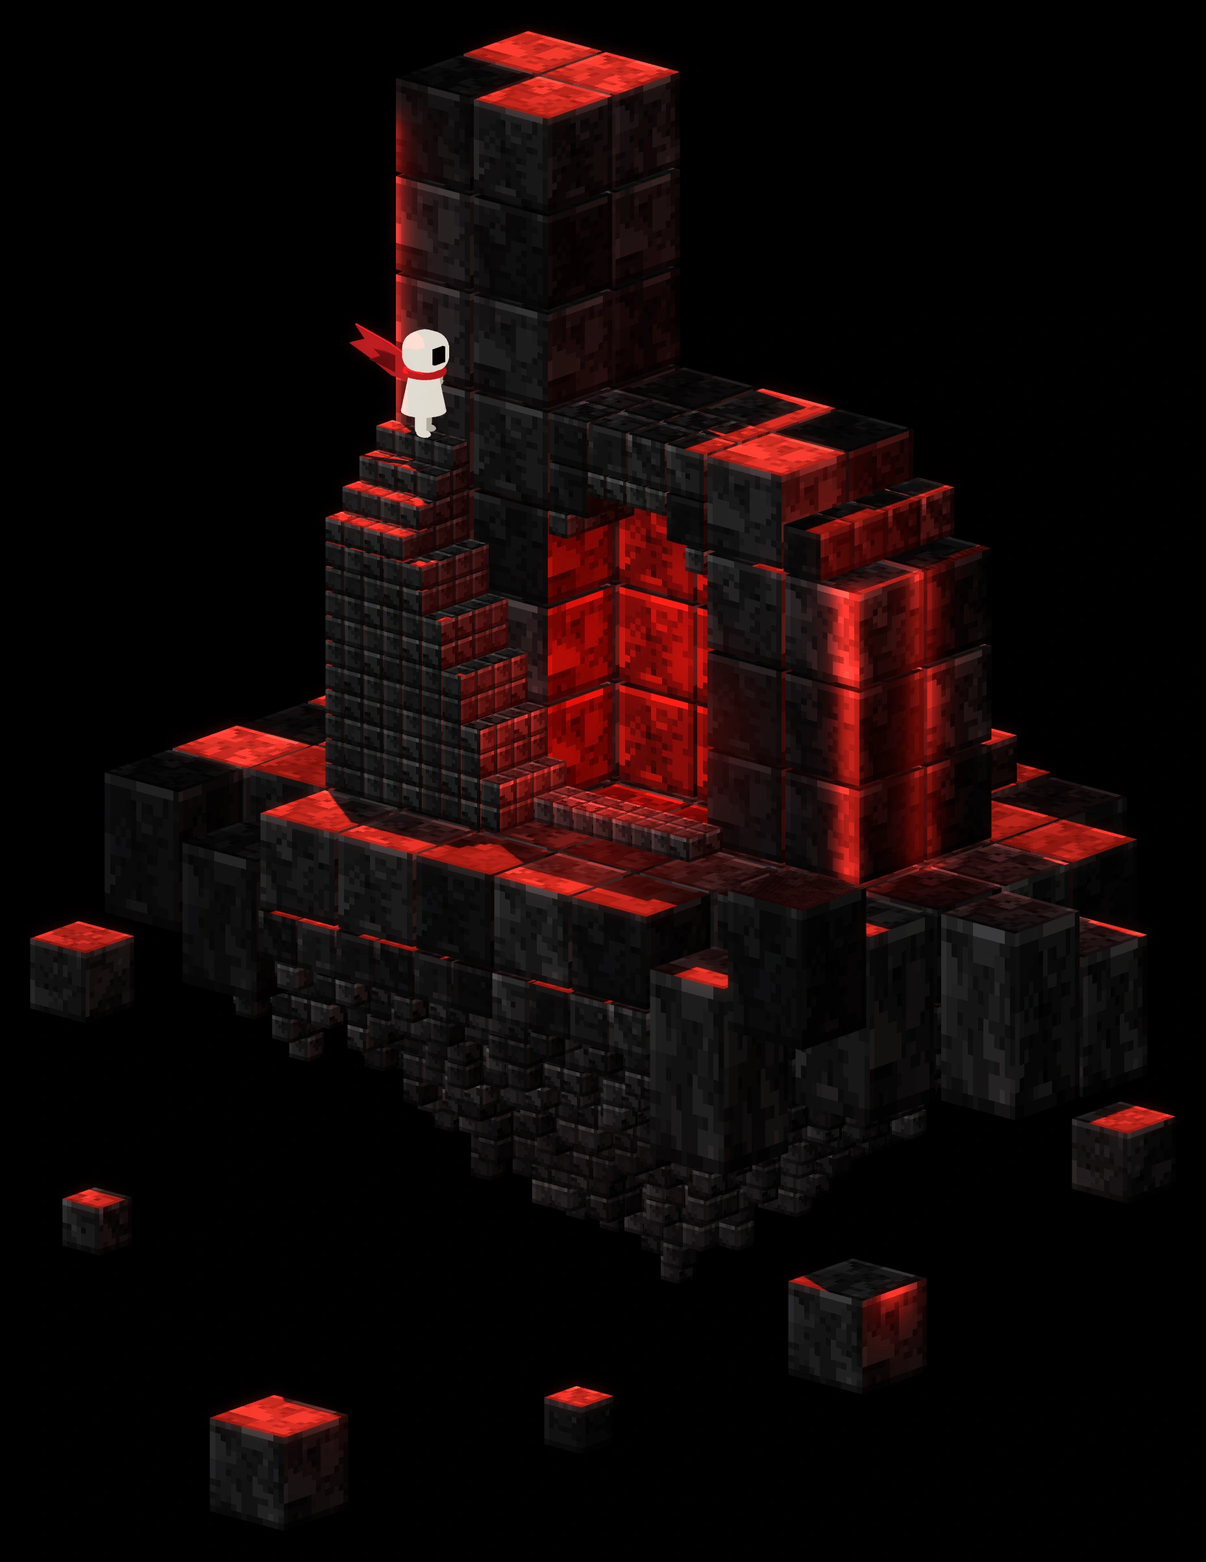
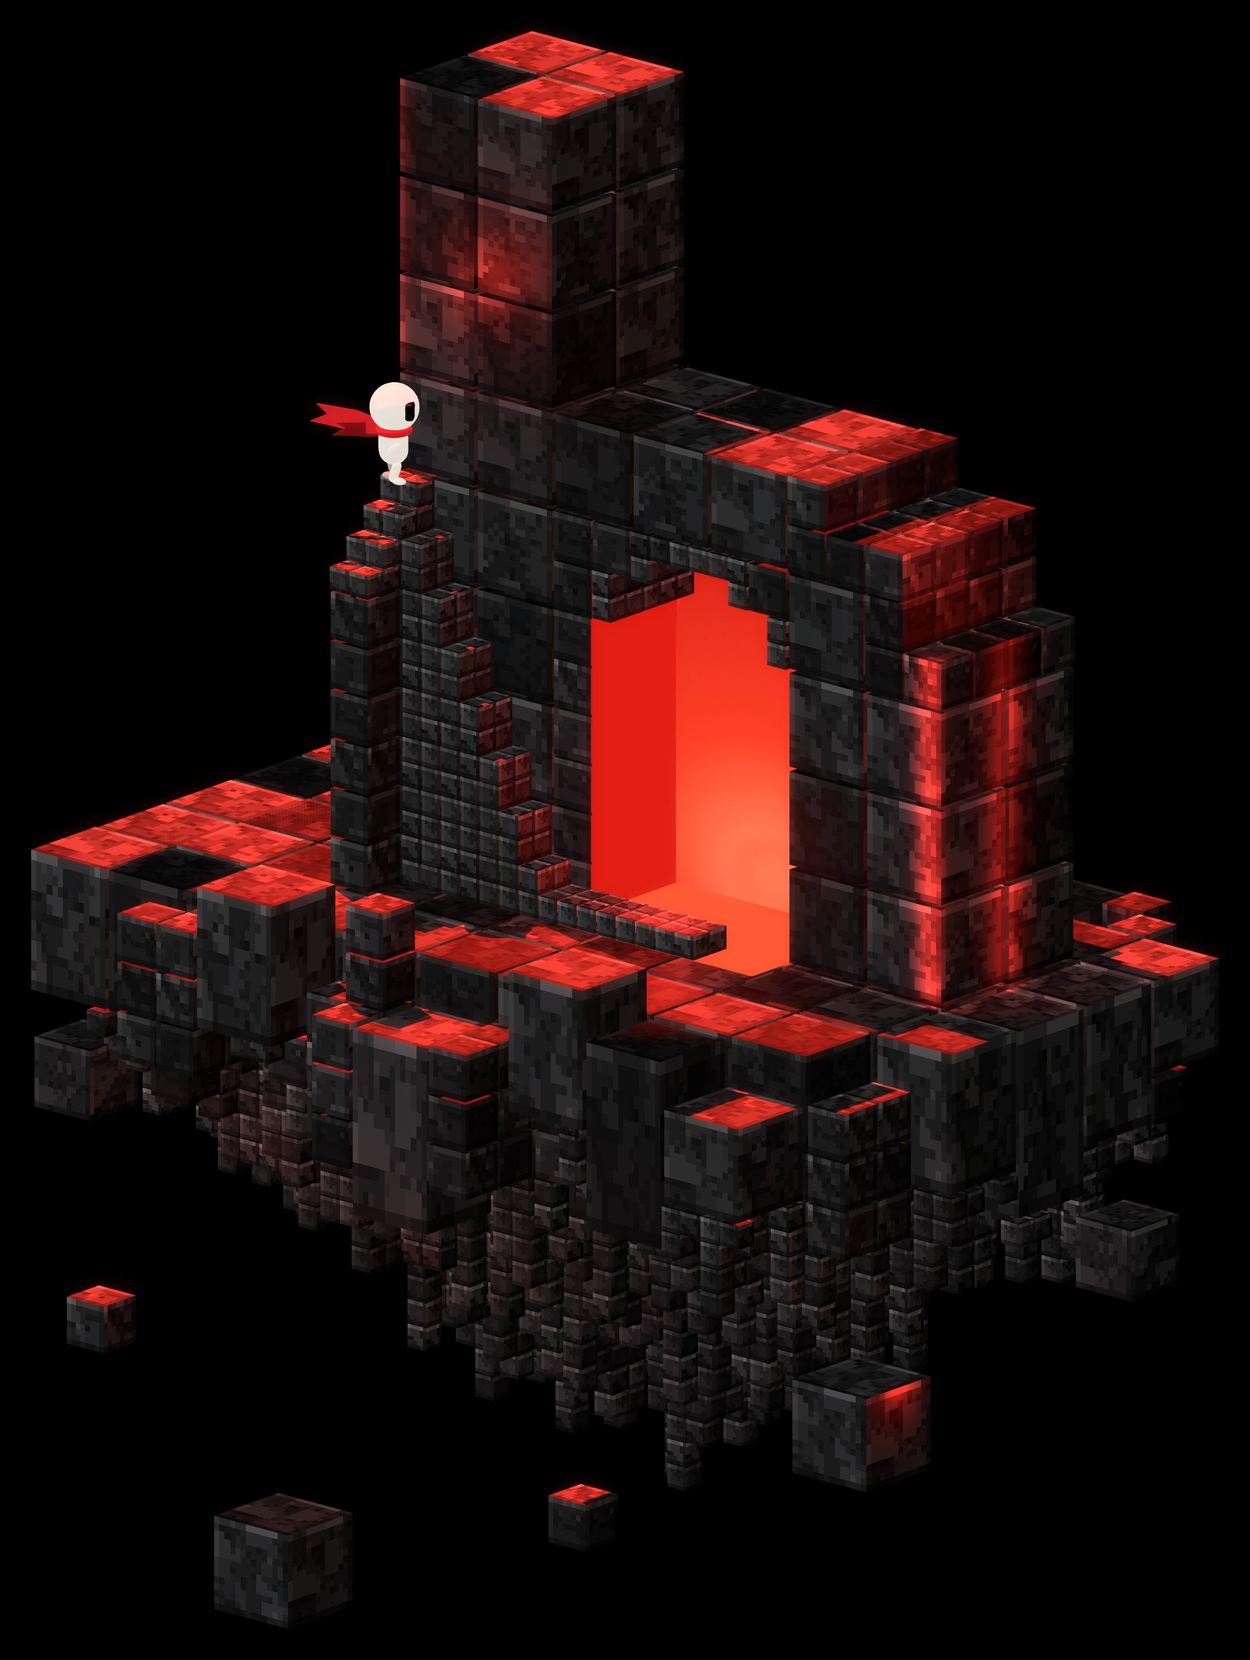
Sculpture: bigger glowing gate, wider lintel, new stairs and explorer, wider island, rebalanced light
- gate 37.5 wide and 56 tall, recessed 18.75; smooth glowing panels on its back wall, inner side
  and floor so light comes from inside and spills out
- bowl one cube longer and five tall: a wider stone band above the gate, right wall still two big cubes
- stem taller to keep the reference's proportions
- stairs: a landing block in 7.5 cubes, three steps toward the viewer, then an eight-step flight
  to the gate; treads lit by a red light straight above
- explorer rebuilt: big round helmet, black visor, chunkier body, arms and legs mid-stride, long scarf
- island wider toward the front-left; ragged, spiky underside
- lighting: key moved straight above the b (front faces stay dark stone), more neutral fill,
  softer edge strips

Claude-Session: https://claude.ai/code/session_01QzWKhTYrrY3Jd26DSiS11Q

Changed region(s): [[0.0, 0.0, 0.9677, 0.9348], [0.1561, 0.8725, 0.2809, 0.9348], [0.0312, 0.7478, 0.1249, 0.8101]]

diff --git a/tools/sculpture3d.js b/tools/sculpture3d.js
@@ -51,13 +51,12 @@ const G = 3.75;                                    // finest letter cell; aligne
 const BODY_Y1 = 45;                                // front plane of the letter
 const JF = BODY_Y1 / G;                            // cells through the depth of the bowl
 // Measured from the reference on a fine grid, in units of the stem's width (2 cubes = 30):
-const STEM = { x0: 30, x1: 60, h: 105, y0: 15 };  // 2 big cubes wide, 2 deep, 7 tall
-const BOWL = { x0: 45, x1: 120, h: 60, rTop: 30, rBot: 0, y0: 15 };    // 2 big cubes deep and 4 tall: the right end is two big cubes thick, the curve carved from them
-const DOOR = { x0: 60, x1: 90, zRect: 33.75, cx: 75, r: 15, recessY: 30 };   // starts at the stem's front corner; deep recess so the red inner wall shows   // narrow arch starting just right of the stem, 11.25 deep
-const LANDING_Z = 52.5;                            // the landing against the stem where the explorer stands
-const STAIR_Y1 = 60;                               // the stair block stands one cube proud of the b's face
+const STEM = { x0: 30, x1: 60, h: 120, y0: 15 };  // 2 big cubes wide, 2 deep, 8 tall
+const BOWL = { x0: 45, x1: 135, h: 75, rTop: 37.5, rBot: 0, y0: 15 };   // 2 big cubes deep, 5 tall; the right wall (x 105..135) is two big cubes; big rounded top-right corner
+const DOOR = { x0: 67.5, x1: 105, zRect: 37.5, cx: 86.25, r: 18.75, recessY: 26.25 };   // a big arched gate (37.5 wide, 56 tall), recessed 18.75 so its glowing inside shows
+const LANDING_Z = 60;                              // the landing against the stem where the explorer stands
 const CELL = 15;                                   // island top cube; tiers below are CELL/2 and CELL/4
-const PLAT_CX = 70, PLAT_CY = 34, PLAT_AX = 74, PLAT_AY = 46;   // island footprint, centred under the b
+const PLAT_CX = 70, PLAT_CY = 36, PLAT_AX = 86, PLAT_AY = 54;   // island footprint, centred under the b and wide toward the front-left
 
 const inCircle = (x, z, cx, cz, r) => (x - cx) ** 2 + (z - cz) ** 2 <= r * r;
 const inStem = (X, Z) => X >= STEM.x0 && X < STEM.x1 && Z >= 0 && Z < STEM.h;
@@ -113,24 +112,26 @@ function buildLetter() {
   chips.forEach(([i, j, k]) => grid.delete(gk(i, j, k)));
 }
 
-// Stairs, as in the reference. A landing against the stem (x 30..45, 52.5 high) where the explorer stands, on a block one cube proud of
-// the b's face; three steps come forward toward the viewer. Then a flight of five steps (3.75 run, 7.5 rise) runs right along the wall,
-// as deep as the landing block, down to the doorstep. Everything is stacked 3.75-unit blocks, so the walls under the steps read as fine masonry.
+// Stairs, as in the reference. A landing against the stem's front-left corner (x 30..37.5, 60 high) where the explorer stands; three
+// steps drop toward the viewer from it; then a thin flight (7.5 deep) of eight steps runs right along the stem's front, down to the gate.
+// Each step is a dark stone column topped by a lit tread block, so the treads read as a crisp staircase.
 function emitStairs() {
-  const q = 3.75;
+  const q = 3.75, h = 7.5;
   let c = 0;
-  const stack = (X, Y, top) => {
-    const n = Math.round(top / q);
-    for (let k = 0; k < n; k++) {
-      const f = baseFaces();
-      f[2] = 'c' + Math.floor(hash3(c, k, 0, 250) * 4); f[0] = 'c' + Math.floor(hash3(c, k, 1, 251) * 4); f[4] = 'c' + Math.floor(hash3(c, k, 2, 252) * 4);
-      blocks.push({ X, Y, Z: k * q + q / 2, s: q, f, t: k === n - 1 ? 0.95 : 0.5 + 0.35 * hash3(c, k, 3, 253) });
-    }
-    c++;
+  const cube = (X, Y, Z, sz, t) => {
+    const f = baseFaces();
+    f[2] = 'c' + Math.floor(hash3(c, 1, 0, 250) * 4); f[0] = 'c' + Math.floor(hash3(c, 2, 0, 251) * 4); f[4] = 'c' + Math.floor(hash3(c, 3, 0, 252) * 4);
+    blocks.push({ X, Y, Z, s: sz, f, t }); c++;
   };
-  const firstFlight = [52.5, 48.75, 45, 41.25];                       // landing row, then three steps toward the viewer
-  for (let r = 0; r < 4; r++) for (let x = 0; x < 4; x++) stack(30 + q / 2 + x * q, 45 + q / 2 + r * q, firstFlight[r]);
-  for (let st = 0; st < 5; st++) for (let r = 0; r < 4; r++) stack(45 + q / 2 + st * q, 45 + q / 2 + r * q, 37.5 - st * 7.5);
+  const step = (X, Y, top, from) => {                                  // small cubes from 'from' up to the tread
+    const n = Math.round((top - from) / q);
+    for (let k = 0; k < n; k++) cube(X, Y, from + k * q + q / 2, q, k === n - 1 ? 1.1 : 0.6 + 0.3 * hash3(c, 4, 0, 253));
+  };
+  // landing block (x 30..37.5, y 45..60): solid 7.5 cubes up to 45, then the landing and three steps toward the viewer in small cubes
+  for (let yy = 0; yy < 2; yy++) for (let k = 0; k < 6; k++) cube(30 + h / 2, 45 + h / 2 + yy * h, k * h + h / 2, h, 0.6 + 0.3 * hash3(yy, k, 0, 254));
+  for (let x = 0; x < 2; x++) for (let r = 0; r < 4; r++) step(30 + q / 2 + x * q, 45 + q / 2 + r * q, [60, 56.25, 52.5, 48.75][r], 45);
+  // the flight down to the gate: eight steps, 7.5 deep
+  for (let st = 0; st < 8; st++) for (let r = 0; r < 2; r++) step(37.5 + q / 2 + st * q, 45 + q / 2 + r * q, 52.5 - st * 7.5, 0);
 }
 
 /* merge aligned groups into the island's three tiers: 15-unit cubes (4x4x4 cells) where a full group fits, else 7.5-unit blocks
@@ -208,8 +209,8 @@ function emitPlatform() {
       if (rr > 1.0) continue;
       const r = hash3(ci, cj, 0, 2);
       const ring = rr > 0.8;
-      const flat = cj >= 0 && cj <= 3 && x > -30 && x < 135;                  // keeps its height: under the letter, the stairs and the doorstep
-      const under = cj >= 1 && cj <= 2 && x > 30 && x < 105;                       // hidden under the letter: no checker
+      const flat = cj >= 0 && cj <= 3 && x > -30 && x < 150;                  // keeps its height: under the letter, the stairs and the doorstep
+      const under = cj >= 1 && cj <= 2 && x > 30 && x < 135;                       // hidden under the letter: no checker
       let top = 0;
       if (ring && !flat) top = r < 0.28 ? -CELL / 2 : r > 0.72 ? CELL / 2 : 0;  // uneven rim: cubes stand at three heights
       const D = bowlDepth(x, y) * (0.96 + 0.08 * hash3(ci, cj, 1, 4));
@@ -247,8 +248,8 @@ function emitPlatform() {
         const z2 = z1 - len2 * h2;
         for (let c = 0; c < 2; c++) for (let d = 0; d < 2; d++) {
           const xt = xs - q4 / 2 + c * q4, yt = ys - q4 / 2 + d * q4, h3 = hh * 13 + c * 3 + d;
-          const D3 = bowlDepth(xt, yt) * (0.85 + 0.3 * hash3(h3, 0, 0, 241)) - drop1 - len2 * h2;
-          const len3 = Math.min(7, Math.max(0, Math.round(1.0 * D3 / q4)));
+          const D3 = bowlDepth(xt, yt) * (0.6 + 0.8 * hash3(h3, 0, 0, 241)) - drop1 - len2 * h2;
+          const len3 = Math.min(9, Math.max(0, Math.round(D3 / q4) + (hash3(h3, 1, 0, 242) < 0.25 ? 2 : 0)));   // ragged: some columns hang on as stalactites
           for (let q = 0; q < len3; q++) {
             const Z = z2 - q4 / 2 - q * q4;
             blocks.push({ X: xt, Y: yt, Z, s: q4, f: tierFaces(h3 * 5 + q), t: tintOf(h3, q, 3, Z) });
@@ -327,8 +328,9 @@ function material(token, n) {
     m = new THREE.MeshStandardMaterial({ map: makeTexture('c', v, n), roughness: 0.62, metalness: 0 });
   } else {
     // doorway interior: light-emitting surfaces (the doorway is the glowing source in the scene)
+    // the gate's inside glows: a smooth, bright red with only a faint trace of the stone grain
     const t = makeTexture('c', v, n);
-    m = new THREE.MeshStandardMaterial({ map: t, color: 0xff2a1e, roughness: 0.7, emissive: 0xff1a12, emissiveMap: t, emissiveIntensity: v === 0 ? 1.7 : 1.0 });
+    m = new THREE.MeshStandardMaterial({ map: t, color: 0x3a0806, roughness: 0.9, emissive: v === 0 ? 0xff2416 : 0xe01810, emissiveIntensity: v === 0 ? 1.0 : 0.75 });
   }
   matCache.set(key, m);
   return m;
@@ -388,56 +390,89 @@ for (const [, list] of groups) {
   scene.add(plate);
 }
 
+/* ---------- the gate's light: smooth glowing panels on the recess's back wall and floor, brightest low and in the middle ---------- */
+{
+  const tex = (() => {
+    const c = document.createElement('canvas'); c.width = 64; c.height = 128;
+    const g = c.getContext('2d');
+    const gr = g.createRadialGradient(32, 118, 4, 32, 96, 110);
+    gr.addColorStop(0, '#ff7a52'); gr.addColorStop(0.35, '#ff3420'); gr.addColorStop(1, '#c4140e');
+    g.fillStyle = gr; g.fillRect(0, 0, 64, 128);
+    const t = new THREE.CanvasTexture(c); t.colorSpace = THREE.SRGBColorSpace; return t;
+  })();
+  const arch = new THREE.Shape();
+  const w = DOOR.x1 - DOOR.x0, top = DOOR.zRect;
+  arch.moveTo(-w / 2, 0); arch.lineTo(w / 2, 0); arch.lineTo(w / 2, top);
+  arch.absarc(0, top, w / 2, 0, Math.PI, false); arch.lineTo(-w / 2, 0);
+  const ag = new THREE.ShapeGeometry(arch, 24);
+  // map UVs to the shape's bounds
+  const pos = ag.attributes.position, uv = ag.attributes.uv, H = top + w / 2;
+  for (let i = 0; i < pos.count; i++) uv.setXY(i, pos.getX(i) / w + 0.5, pos.getY(i) / H);
+  const back = new THREE.Mesh(ag, new THREE.MeshBasicMaterial({ map: tex }));
+  back.position.set(DOOR.cx, 0, DOOR.recessY + 0.15);                  // scene (X, Y, Z) -> three (x, z, y)
+  scene.add(back);
+  const floor = new THREE.Mesh(new THREE.PlaneGeometry(w, BODY_Y1 - DOOR.recessY + 7.5), new THREE.MeshBasicMaterial({ color: 0xff4a2c }));
+  floor.rotation.x = -Math.PI / 2;
+  floor.position.set(DOOR.cx, 0.12, (DOOR.recessY + BODY_Y1 + 7.5) / 2);
+  scene.add(floor);
+  // the recess's inner left wall glows too (seen through the opening)
+  const side = new THREE.Mesh(new THREE.PlaneGeometry(BODY_Y1 - DOOR.recessY, DOOR.zRect + DOOR.r * 0.7), new THREE.MeshBasicMaterial({ color: 0xd8180f }));
+  side.rotation.y = Math.PI / 2;
+  side.position.set(DOOR.x0 + 0.15, (DOOR.zRect + DOOR.r * 0.7) / 2, (DOOR.recessY + BODY_Y1) / 2);
+  scene.add(side);
+}
+
 /* ---------- explorer (self-lit ivory so the red light does not tint him) ---------- */
 (function explorer() {
+  // The explorer from the reference: a chibi figure with a big round white helmet and a black visor, a small white body, short arms and
+  // legs mid-stride, and a red scarf whose long tail streams out behind him. Self-lit ivory so the red light does not tint him.
   const g = new THREE.Group();
-  // bright ivory, self-lit so the red light does not tint him; a darker twin gives the form some shading
-  const ivory = new THREE.MeshStandardMaterial({ color: 0xa09b90, roughness: 0.55, emissive: 0xf6f1e6, emissiveIntensity: 0.78 });
-  const ivoryShade = new THREE.MeshStandardMaterial({ color: 0x77736a, roughness: 0.7, emissive: 0xd8d1c2, emissiveIntensity: 0.6 });
-  const red = new THREE.MeshStandardMaterial({ color: 0xe5262b, roughness: 0.7, emissive: 0xd01c20, emissiveIntensity: 0.6, side: THREE.DoubleSide });
-  const redDark = new THREE.MeshStandardMaterial({ color: 0x8a1014, roughness: 0.8, emissive: 0x6a0a0e, emissiveIntensity: 0.6, side: THREE.DoubleSide });
-  const dark = new THREE.MeshStandardMaterial({ color: 0x0b0b0a, roughness: 0.4 });
+  const ivory = new THREE.MeshStandardMaterial({ color: 0xb0aba0, roughness: 0.5, emissive: 0xf6f1e6, emissiveIntensity: 0.8 });
+  const shade = new THREE.MeshStandardMaterial({ color: 0x8a857b, roughness: 0.6, emissive: 0xcdc6b7, emissiveIntensity: 0.62 });
+  const red = new THREE.MeshStandardMaterial({ color: 0xe5262b, roughness: 0.6, emissive: 0xd81c20, emissiveIntensity: 0.7, side: THREE.DoubleSide });
+  const redDark = new THREE.MeshStandardMaterial({ color: 0x8a1014, roughness: 0.8, emissive: 0x7a0c10, emissiveIntensity: 0.7, side: THREE.DoubleSide });
+  const black = new THREE.MeshStandardMaterial({ color: 0x050505, roughness: 0.25, metalness: 0.2 });
   const add = (geo, mat, x, y, z, rx = 0, ry = 0, rz = 0) => {
     const m = new THREE.Mesh(geo, mat); m.position.set(x, y, z); m.rotation.set(rx, ry, rz);
-    m.castShadow = true; m.receiveShadow = true; g.add(m); return m;
+    m.castShadow = true; g.add(m); return m;
   };
-  // short legs and small feet
-  add(new THREE.CapsuleGeometry(0.9, 2.0, 4, 10), ivoryShade, -0.4, 2.2, -1.4);
-  add(new THREE.CapsuleGeometry(0.9, 2.0, 4, 10), ivory, 0.9, 2.2, 1.4);
-  add(new THREE.SphereGeometry(1.0, 12, 8), ivoryShade, 0.1, 0.5, -1.4).scale.set(1.3, 0.55, 0.9);
-  add(new THREE.SphereGeometry(1.0, 12, 8), ivory, 1.5, 0.5, 1.4).scale.set(1.3, 0.55, 0.9);
-  // bell-shaped tunic with a red lining at the hem
-  add(new THREE.CylinderGeometry(2.1, 3.5, 6.8, 20), ivory, 0.3, 7.0, 0);
-  add(new THREE.CylinderGeometry(3.4, 3.4, 0.45, 20), red, 0.3, 3.9, 0).scale.set(0.96, 1, 0.96);
-  // arms: one reaching toward the stairs, one tucked back
-  add(new THREE.CapsuleGeometry(0.7, 2.8, 4, 8), ivory, 2.4, 7.6, 2.5, 0.4, 0, -0.95);
-  add(new THREE.CapsuleGeometry(0.65, 2.4, 4, 8), ivoryShade, 1.2, 7.9, -2.5, -0.2, 0, -0.3);
-  // large rounded head with a dark visor on the side facing the stairs
-  add(new RoundedBoxGeometry(6.8, 6.4, 6.6, 4, 2.7), ivory, 0.7, 13.2, 0);
-  add(new THREE.BoxGeometry(0.5, 2.5, 2.4), dark, 4.15, 13.5, 0.9);
-  // scarf: collar, a short knot, and a notched tail trailing left
-  add(new THREE.TorusGeometry(2.7, 0.7, 8, 24), red, 0.5, 10.1, 0, Math.PI / 2, 0, 0).scale.set(1, 1, 0.92);
+  // legs mid-stride and rounded boots
+  add(new THREE.CapsuleGeometry(0.75, 2.2, 4, 10), shade, -0.7, 2.0, -0.9, 0, 0, 0.28);
+  add(new THREE.CapsuleGeometry(0.75, 2.2, 4, 10), ivory, 0.9, 2.0, 0.9, 0, 0, -0.32);
+  add(new THREE.SphereGeometry(0.95, 12, 8), shade, -1.3, 0.55, -0.9).scale.set(1.35, 0.6, 0.95);
+  add(new THREE.SphereGeometry(0.95, 12, 8), ivory, 1.6, 0.55, 0.9).scale.set(1.35, 0.6, 0.95);
+  // body: a short rounded torso
+  add(new THREE.CapsuleGeometry(2.45, 1.9, 6, 16), ivory, 0, 6.3, 0).scale.set(1, 1, 0.9);
+  // arms swinging
+  add(new THREE.CapsuleGeometry(0.7, 2.4, 4, 8), ivory, 1.9, 6.4, 2.7, 0.6, 0, -0.75);
+  add(new THREE.CapsuleGeometry(0.68, 2.2, 4, 8), shade, -1.7, 6.5, -2.6, -0.5, 0, 0.65);
+  // big round helmet with a black visor facing the viewer's right
+  add(new THREE.SphereGeometry(4.0, 28, 20), ivory, 0.2, 12.4, 0).scale.set(1, 0.98, 0.98);
+  add(new RoundedBoxGeometry(1.4, 2.8, 2.6, 2, 0.5), black, 3.75, 12.6, 1.0, 0, 0.45, 0);
+  // scarf: a collar and a long notched tail streaming behind
+  add(new THREE.TorusGeometry(2.25, 0.75, 8, 24), red, 0.1, 8.7, 0, Math.PI / 2, 0, 0);
   const tail = new THREE.Shape();
-  tail.moveTo(0, 0.5); tail.lineTo(-4.8, 2.9); tail.lineTo(-11.0, 4.9); tail.lineTo(-9.2, 2.8); tail.lineTo(-12.0, 1.7);
-  tail.lineTo(-8.8, 0.2); tail.lineTo(-4.4, -2.2); tail.lineTo(0, -2.8); tail.closePath();
-  add(new THREE.ExtrudeGeometry(tail, { depth: 0.45, bevelEnabled: false }), red, -1.2, 10.5, -0.2, 0, 0.15, 0);
-  add(new THREE.ExtrudeGeometry(tail, { depth: 0.3, bevelEnabled: false }), redDark, -1.0, 9.9, -0.9, 0, 0.35, 0.05).scale.set(0.7, 0.6, 1);
-  g.scale.setScalar(0.95);
-  g.position.set(37.5, LANDING_Z, 47);
+  tail.moveTo(0, 0.6); tail.lineTo(-5, 2.0); tail.lineTo(-11.5, 2.4); tail.lineTo(-9.6, 0.9); tail.lineTo(-12.4, -0.6);
+  tail.lineTo(-8.6, -1.0); tail.lineTo(-4.4, -1.6); tail.lineTo(0, -1.4); tail.closePath();
+  add(new THREE.ExtrudeGeometry(tail, { depth: 0.4, bevelEnabled: false }), red, -1.4, 8.9, -0.4, 0, 0.35, -0.05);
+  add(new THREE.ExtrudeGeometry(tail, { depth: 0.3, bevelEnabled: false }), redDark, -1.2, 8.3, -1.2, 0, 0.55, 0.08).scale.set(0.75, 0.7, 1);
+  g.scale.setScalar(0.92);
+  g.rotation.y = 0.15;
+  g.position.set(33.75, LANDING_Z, 50);
   scene.add(g);
 })();
 
 /* ---------- lights: red is the main light; the white fill is almost nothing ---------- */
-scene.add(new THREE.AmbientLight(0xffffff, 0.075));
+scene.add(new THREE.AmbientLight(0xffffff, 0.12));
 scene.add(new THREE.HemisphereLight(0xb8b4c0, 0x120c0c, 0.1));
-const fill = new THREE.DirectionalLight(0xc8ccd8, 0.26);              // keeps the left faces a touch lighter than the right
+const fill = new THREE.DirectionalLight(0xc8ccd8, 0.5);              // keeps the left faces a touch lighter than the right
 fill.position.set(-80, 70, 160);
 scene.add(fill);
 
 // The red key: a spotlight high up, left and slightly in front. Its soft cone makes a pool of light that is
 // brightest over the b and falls off toward the island's rim and the cone below; it casts the shadows.
 const key = new THREE.SpotLight(0xff2a1c, 15, 0, 0.62, 1.0, 0);
-key.position.set(-45, 280, 6);
+key.position.set(-45, 280, 26);
 key.target.position.set(66, 40, 20);
 key.castShadow = true;
 key.shadow.mapSize.set(4096, 4096);
@@ -446,10 +481,14 @@ key.shadow.bias = -0.0004; key.shadow.normalBias = 0.35; key.shadow.radius = 3;
 scene.add(key, key.target);
 
 const doorInner = new THREE.PointLight(0xff2a1e, 420, 70, 2);         // glow inside the recess
-doorInner.position.set(DOOR.cx, 22, 39);
-const doorMouth = new THREE.PointLight(0xff2418, 520, 38, 2);         // spill onto the floor, doorstep and nearby steps only
-doorMouth.position.set(DOOR.cx, 12, 54);
+doorInner.position.set(DOOR.cx, 24, 34);
+const doorMouth = new THREE.PointLight(0xff2418, 900, 45, 2);         // spill onto the floor, doorstep and nearby steps only
+doorMouth.position.set(DOOR.cx, 10, 50);
 scene.add(doorInner, doorMouth);
+
+const stairLight = new THREE.PointLight(0xff2a1c, 420, 46, 2);       // straight above the stairs: the treads glow, the risers stay dark
+stairLight.position.set(46, 92, 52);
+scene.add(stairLight);
 
 const edgeLight = (X, Y, Z, intensity, dist) => {
   const l = new THREE.PointLight(0xff2418, intensity, dist, 2);
@@ -463,10 +502,11 @@ const stripLight = (X, Y, Z, w, h, face, intensity) => {                  // sce
   l.lookAt(face === 'front' ? X : X - 1, Z, face === 'front' ? Y - 1 : Y);   // RectAreaLight emits away from the lookAt target
   scene.add(l);
 };
-stripLight(28, 46, 75, 4, 45, 'front', 8);                                // left edge of the stem above the landing
-stripLight(118, 46, 30, 4, 60, 'front', 8);                               // front edge at the right end of the bowl
-stripLight(122, 30, 30, 4, 60, 'right', 3);                               // right end face, along its front edge
-edgeLight(67, 92, -70, 160, 100);                                     // low red glow under the island: the cone's tips catch it
+stripLight(29, 46, 97.5, 2, 45, 'front', 4);                                // left edge of the stem above the landing
+stripLight(133, 46, 37.5, 4, 75, 'front', 5);                               // front edge at the right end of the bowl
+stripLight(137, 30, 37.5, 4, 75, 'right', 3);                               // right end face, along its front edge
+edgeLight(67, 100, -55, 260, 110);
+edgeLight(20, 90, -40, 140, 70);                                     // low red glow under the island: the cone's tips catch it
 edgeLight(160, 80, -45, 90, 60);
 edgeLight(-45, 70, -40, 80, 55);
 

diff --git a/index.html b/index.html
@@ -46,9 +46,9 @@
       <figure class="hero__art">
         <img class="hero__sculpture"
           src="assets/sculpture.webp"
-          srcset="assets/sculpture-1000.webp 1000w, assets/sculpture.webp 1858w"
+          srcset="assets/sculpture-1000.webp 1000w, assets/sculpture.webp 1927w"
           sizes="(max-width: 900px) 100vw, 46vw"
-          width="1858" height="2407"
+          width="1927" height="2558"
           alt="A lowercase b built from small charcoal blocks, floating on a rocky island. A stairway climbs to a tiny ivory explorer in a red scarf, and a red doorway glows in the bowl."
           fetchpriority="high" decoding="async">
       </figure>

diff --git a/design/ITERATION.md b/design/ITERATION.md
@@ -44,5 +44,6 @@ Use [DESIGN.md](../DESIGN.md) as the current source of design decisions. Add rev
 | 2026-10-15 | Removed the block and platform left of the stem; one stair flight runs from a landing in front of the stem (explorer fully visible) down the front wall to the door; bowl lengthened to 7 cubes with a square bottom and small rounded top corner so its right end is a full-height side; taller door; island centred under the b. | Implemented, awaiting user review |
 | 2026-10-15 | b refit by overlaying the render's outline on the reference: stem one cube deep and 3.2x as tall as wide, bowl one cube deep with flush front, door right beside the stem with a deep red recess, landing block plus a flight of five steps to the doorstep; island narrower and its cone shorter so the b leads. | Implemented, awaiting user review |
 | 2026-10-15 | Per the user's markup: the b (stem and bowl) is now two big cubes deep, so its right side is built from two big cubes with half cubes rounding the corner; the island's front edge is uneven (rim cubes at three heights and depths, some broken into half cubes). | Implemented, awaiting user review |
+| 2026-10-15 | Bigger glowing gate (37.5 x 56) lit from inside by smooth glowing panels with light spilling onto the floor; wider stone band above it; bowl one cube longer and five tall with a two-cube right wall; taller stem; rebuilt stairs (landing, three steps, eight-step flight with lit treads); new chibi explorer; wider island front-left with a ragged, spiky underside; lighting rebalanced (key above the b, lifted neutral fill, softer edge strips). | Implemented, awaiting user review |
 
 For each later review, record the exact file, decision, and approval status. Do not mark proposals approved without a user decision.
